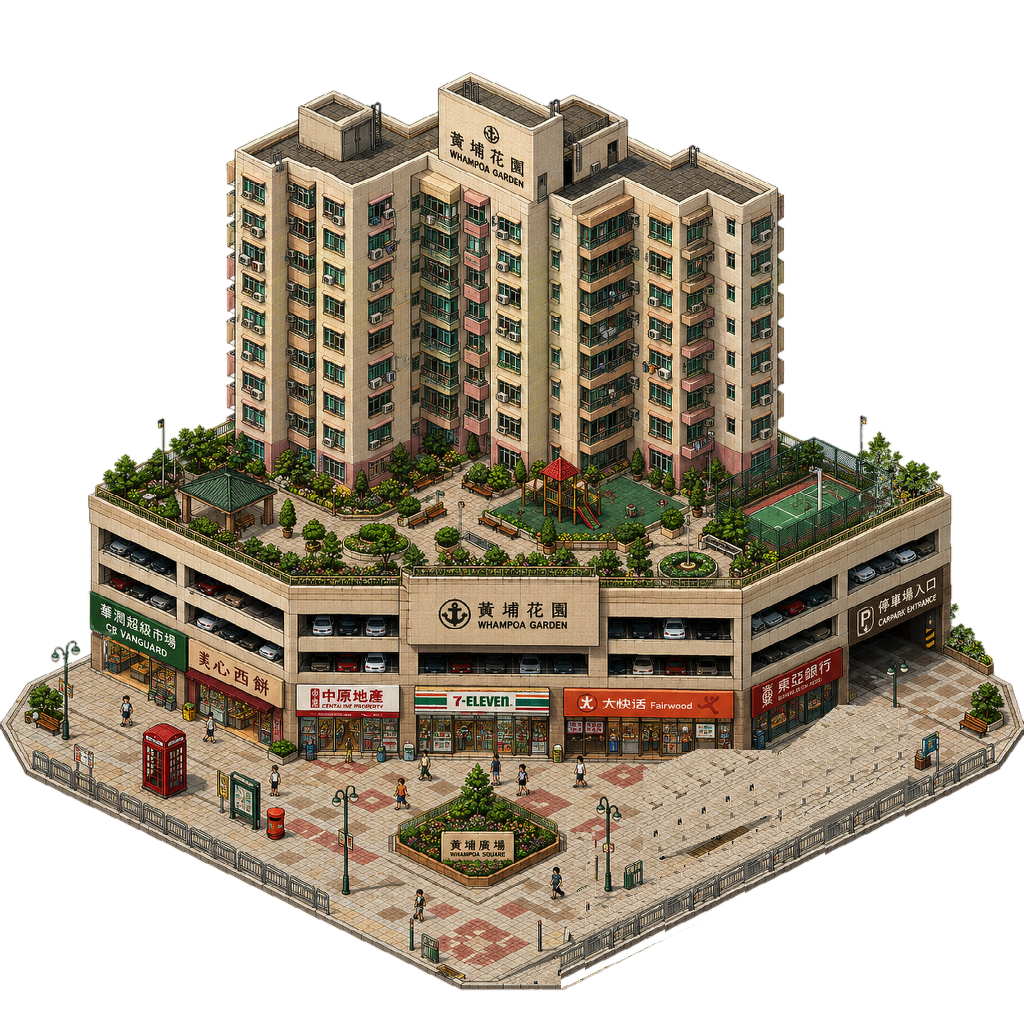
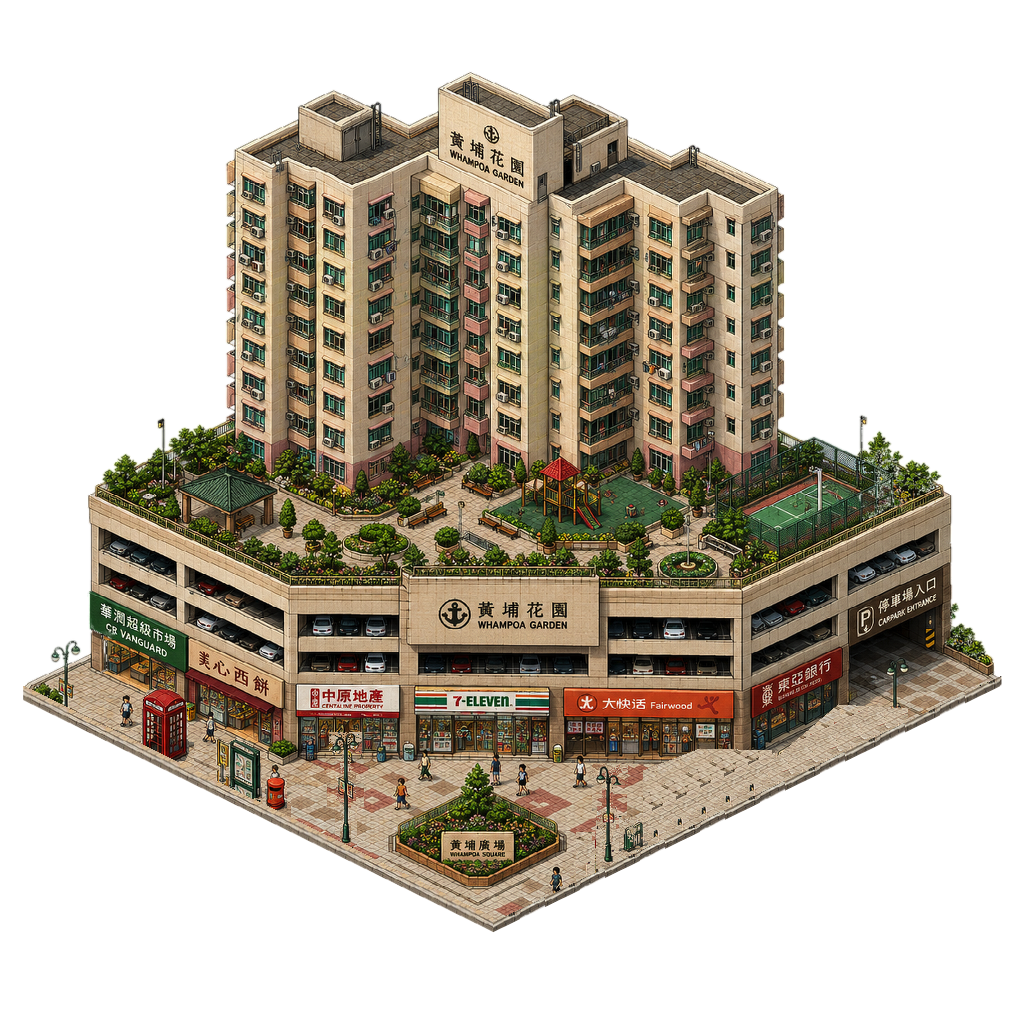
黃埔花園: front plaza cut back to a square lot, like 海翠苑 behind it
residential4-02-M-MD stood on an octagonal plaza much deeper than its neighbours'. About half
of it is cut away along both front edges (73 px left, 82 px right, at the slab), leaving a
square-cornered lot finished with the art's own kerb. The phone booth, sign boards, mailbox and
two street lamps move in with the kerb; the railings go with the cut. Its ground corners now sit
on the new lot (about 18 m a tile at 3x3, from 20.8), the light profile follows the new packaged
layout and the two lamps' glows move with their posts.

Changed region(s): [[0.0, 0.6562, 1.0, 0.9688]]

diff --git a/building-lighting.js b/building-lighting.js
@@ -829,15 +829,16 @@ const BUILDING_LIGHT_HERO_PROFILES = {
     ],
     lamps: [{ x: 0.443, y: 0.868, r: 0.06 }, { x: 0.098, y: 0.664, r: 0.06 }, { x: 0.586, y: 0.847, r: 0.06 }, { x: 0.803, y: 0.757, r: 0.06 }, { x: 0.942, y: 0.687, r: 0.06 }, { x: 0.37, y: 0.611, r: 0.06 }, { x: 0.607, y: 0.635, r: 0.06 }, { x: 0.531, y: 0.564, r: 0.06 }],
   }),
+  // 黃埔花園: front plaza cut back to a square lot (2026-10-17); lamps L and mid R moved in with their posts
   "residential4-02-M-MD": makeBuildingLightProfile({
     class: 'res',
     panels: [
-      { c: [[0.231, 0.194], [0.343, 0.236], [0.337, 0.476], [0.229, 0.443]], rows: 8, cols: 3 },
-      { c: [[0.411, 0.205], [0.511, 0.247], [0.516, 0.498], [0.409, 0.458]], rows: 8, cols: 3 },
-      { c: [[0.57, 0.248], [0.619, 0.224], [0.621, 0.479], [0.566, 0.505]], rows: 8, cols: 1 },
-      { c: [[0.733, 0.241], [0.76, 0.227], [0.758, 0.484], [0.728, 0.498]], rows: 8, cols: 1 },
+      { c: [[0.231, 0.251], [0.343, 0.293], [0.337, 0.533], [0.229, 0.5]], rows: 8, cols: 3 },
+      { c: [[0.411, 0.262], [0.511, 0.304], [0.516, 0.555], [0.409, 0.515]], rows: 8, cols: 3 },
+      { c: [[0.57, 0.305], [0.619, 0.281], [0.621, 0.536], [0.566, 0.562]], rows: 8, cols: 1 },
+      { c: [[0.733, 0.298], [0.76, 0.284], [0.758, 0.541], [0.728, 0.555]], rows: 8, cols: 1 },
     ],
-    lamps: [{ x: 0.335, y: 0.811, r: 0.06 }, { x: 0.596, y: 0.824, r: 0.06 }, { x: 0.066, y: 0.678, r: 0.06 }, { x: 0.882, y: 0.694, r: 0.06 }, { x: 0.447, y: 0.524, r: 0.04 }, { x: 0.796, y: 0.499, r: 0.04 }],
+    lamps: [{ x: 0.335, y: 0.817, r: 0.06 }, { x: 0.596, y: 0.851, r: 0.06 }, { x: 0.066, y: 0.735, r: 0.06 }, { x: 0.882, y: 0.751, r: 0.06 }, { x: 0.447, y: 0.581, r: 0.04 }, { x: 0.796, y: 0.556, r: 0.04 }],
   }),
   "residential5-01-H-MD": makeBuildingLightProfile({
     class: 'res',

diff --git a/constants.js b/constants.js
@@ -769,7 +769,7 @@ const BUILDING_GROUND_CORNERS = {
   'Models/residential/house2x2/residential2-16-H-HD.png': { left: [212, 991], front: [520.5, 1146.8], right: [807, 999.3] },
   'Models/residential/house2x2/residential2-17-H-HD.png': { left: [232, 1000.6], front: [515.5, 1142.3], right: [791, 1004.6] },
   'Models/residential/house3x3/residential3-05-UH-LD.png': { left: [-82.9, 698.2], front: [516.2, 1001.6], right: [1103.8, 711.6] },
-  'Models/residential/house4x4/residential4-02-M-MD.png': { left: [-43.7, 720.6], front: [529.6, 1003.8], right: [1084, 696.3] },
+  'Models/residential/house4x4/residential4-02-M-MD.png': { left: [22.7, 684.9], front: [497.8, 926], right: [1001, 675] },
   'Models/residential/house5x5/residential5-01-H-MD.png': { left: [21, 717.9], front: [523.7, 966.7], right: [1008, 722.2] },
   'Models/specialSites/2x2/murrayHouse2-01.png': { left: [3, 708.9], front: [521.4, 968.1], right: [1021, 718.3] },
   'Models/specialSites/2x2/tample2-01.png': { left: [21, 718.3], front: [518.2, 966.9], right: [1002, 724.9] },
